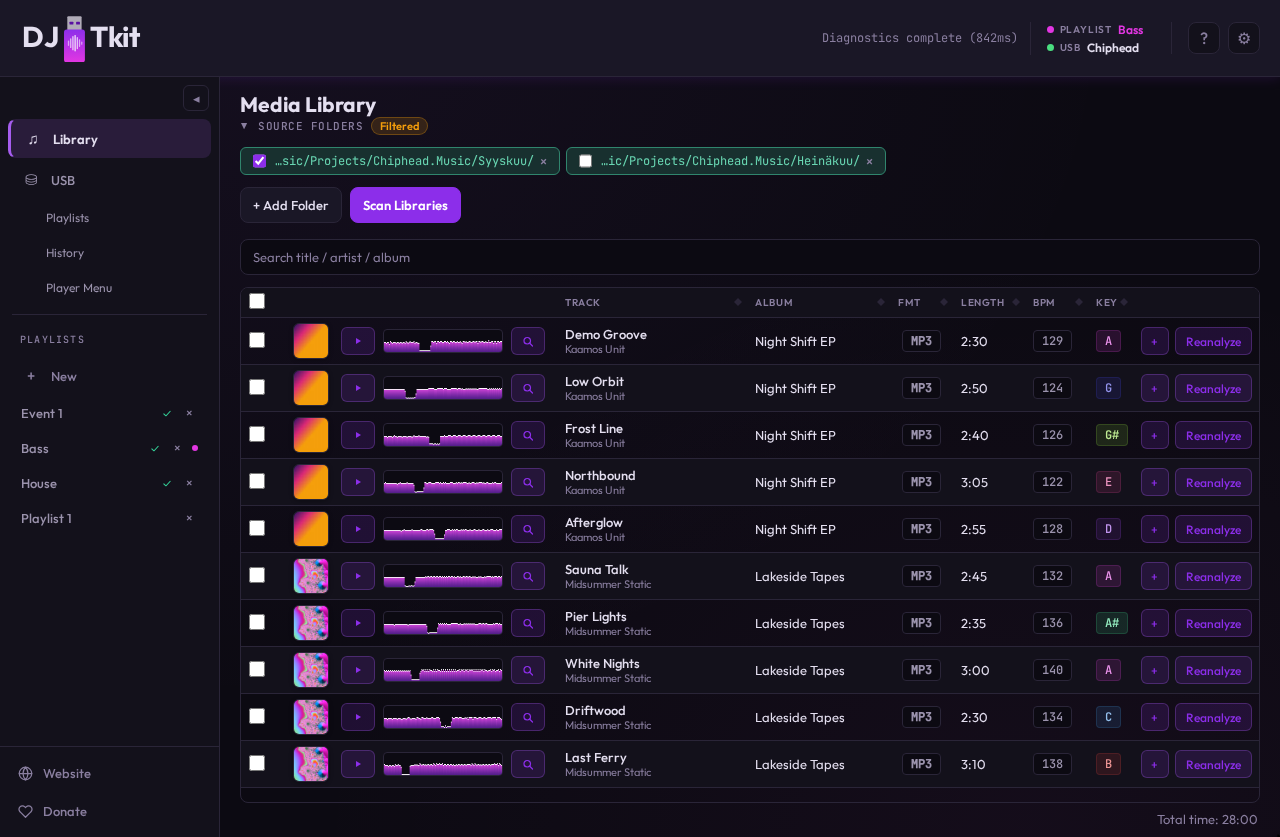
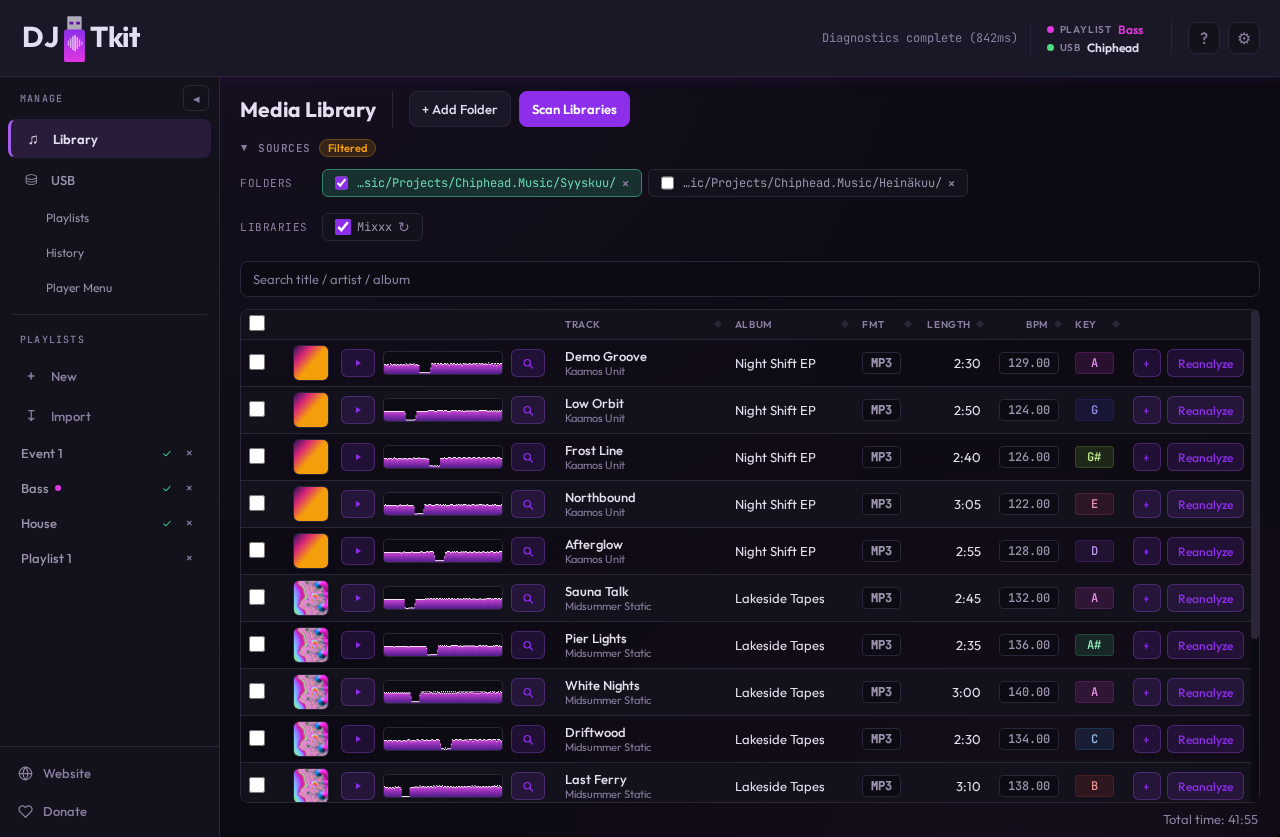
v0.3.0

Changed region(s): [[0.1875, 0.0932, 1.0, 0.994], [0.0, 0.497, 0.0625, 0.5902], [0.0312, 0.6213, 0.0625, 0.6834]]

diff --git a/vanilla-ui/scripts/doc-media/page_init.js b/vanilla-ui/scripts/doc-media/page_init.js
@@ -1,9 +1,9 @@
 // Page init script for record.mjs: stands in for the Tauri backend with the
 // payloads the real backend produced (window.__DOC_GIF_FIXTURE__) plus
 // made-up playlists and a connected USB, and draws a cursor and a Shift
-// keycap, which a headless screencast doesn't show. With
-// `opts.externalLibraries`, a rekordbox and a Mixxx library are "detected"
-// and their made-up playlists can be imported.
+// keycap, which a headless screencast doesn't show. Each library named in
+// `opts.externalLibraries` (`rekordbox`, `mixxx`) is "detected" as imported,
+// and its made-up playlists can be imported.
 (() => {
   const { tracks, detail, sourceRoots, sourceRootEnabled, playlists } = window.__DOC_GIF_FIXTURE__;
   const opts = window.__DOC_GIF_OPTS__ || {};
@@ -16,6 +16,8 @@
   ls.setItem("djusbtkit.sourceRootEnabled", JSON.stringify(sourceRootEnabled));
   ls.setItem("djusbtkit.cueStartOnFirstBeat", "0");
   ls.setItem("djusbtkit.cueQuantize", "1");
+  // An imported Mixxx library is switched on in the Libraries row.
+  if (opts.externalLibraries?.mixxx) ls.setItem("djusbtkit.mixxxDbEnabled", "1");
 
   const durationMs = detail.track.durationMs;
   const clock = { offsetMs: 0, startedAt: null, loaded: false };
@@ -73,11 +75,11 @@
           case "set_frontend_setting":
             return ok(null);
           case "detect_external_master_db":
-            return ok(external
+            return ok(external?.rekordbox
               ? { found: true, path: "C:/Users/dj/AppData/Roaming/Pioneer/rekordbox/master.db", imported: true }
               : { found: false, path: null, imported: false });
           case "detect_external_mixxx_db":
-            return ok(external
+            return ok(external?.mixxx
               ? { found: true, path: "/home/dj/.mixxx/mixxxdb.sqlite", imported: true }
               : { found: false, path: null, imported: false });
           case "list_rekordbox_playlists":
@@ -103,6 +105,8 @@
           }
           case "check_source_roots":
             return ok({ missing: [] });
+          case "list_usb_backups":
+            return ok({ items: opts.backups || [] });
           case "list_usb_devices":
             return ok({ items: [{ id: "usb-chiphead", rootPath: USB_ROOT }] });
           case "validate_usb_root":

diff --git a/vanilla-ui/styles.css b/vanilla-ui/styles.css
@@ -434,8 +434,14 @@ body.library-onboarding {
 .nav-sidebar-header {
   display: flex;
   align-items: center;
-  justify-content: flex-end;
+  justify-content: space-between;
   padding: 8px 10px 4px;
+}
+
+/* "Manage" sits in the header row next to the collapse button; padded so it
+   lines up with the "Playlists" label below (8px list inset + 12px). */
+.nav-sidebar-header .nav-section-label {
+  padding: 0 0 0 10px;
 }
 
 .sidebar-collapse-btn {
@@ -3167,11 +3173,18 @@ td button[data-action]:disabled,
   color: var(--ink-secondary);
 }
 
-/* Backups rows show a reason ("Before playlist reorder") in the shared
+/* Backups rows show a reason ("Before export (additive)") in the shared
    .event-log-source column instead of the short eDB/PDB label the Event
-   Log panel puts there, so it needs more room. */
+   Log panel puts there, so it needs more room; the time column fits the
+   whole "2026-09-26 18:04:12" so each row stays on one line. */
+/* The backup count starts its own block under the description. */
+#backupsSummary {
+  margin-top: 14px;
+}
+
 #backupsList .event-log-row {
-  grid-template-columns: 92px 160px minmax(0, 1fr) auto;
+  grid-template-columns: 150px 190px minmax(0, 1fr) auto;
+  align-items: center;
 }
 
 .backups-row-actions {

diff --git a/vanilla-ui/index.html b/vanilla-ui/index.html
@@ -69,6 +69,7 @@
   <div class="app-layout">
     <aside class="nav-sidebar" id="navSidebar">
       <div class="nav-sidebar-header">
+        <div class="nav-section-label">Manage</div>
         <button class="sidebar-collapse-btn" id="sidebarCollapseBtn" data-tooltip="Collapse sidebar" aria-label="Collapse sidebar">&#9666;</button>
       </div>
       <nav class="nav-items" role="navigation" aria-label="App sections">
@@ -433,11 +434,13 @@
       </section>
 
       <section class="panel" id="panel-backups" role="tabpanel" aria-hidden="true">
-        <h2>Backups</h2>
-        <p class="muted">Each backup includes both the PDB and eDB.</p>
-        <div class="event-log-toolbar">
-          <button id="backupsRefreshBtn" disabled>Refresh</button>
+        <div class="panel-header">
+          <h2>Backups</h2>
+          <div class="panel-header-actions">
+            <button id="backupsRefreshBtn" disabled>Refresh</button>
+          </div>
         </div>
+        <p class="muted">Each backup holds both of the USB's databases: legacy (PDB) and new (eDB).</p>
         <p class="muted" id="backupsSummary">No entries</p>
         <div class="event-log-list" id="backupsList" role="log" aria-live="polite"></div>
       </section>

diff --git a/CHANGELOG.md b/CHANGELOG.md
@@ -39,6 +39,8 @@
 
 ## Unreleased
 
+## 0.3.0
+
 **Severity:** feature
 
 - **New feature:** import a Mixxx library. When the app finds Mixxx's
@@ -154,6 +156,8 @@
     with their buttons.
   - Playlist page: the export status and total time share one row under the
     table, and the title shows only the track count.
+  - Backups: "Refresh" sits next to the title, and each backup fits on one
+    line.
 - **Improvement:** USBs are shown by their name instead of their folder or
   mount path, which is still shown on hover: the selected USB on the USB
   Browser page, and "Export to USB: …" and "Last exported … to …" on a
